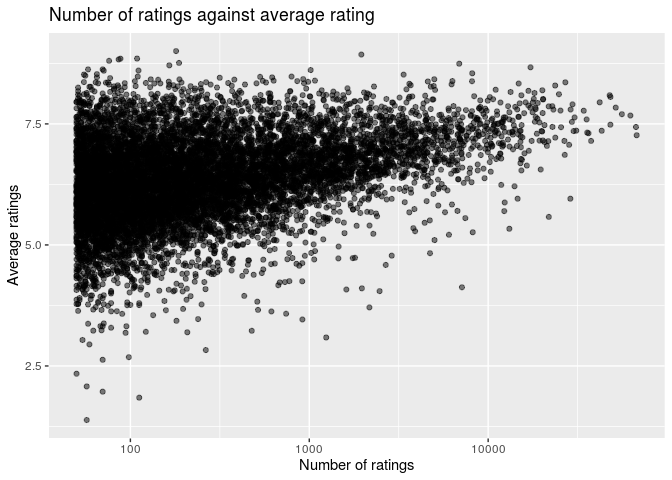
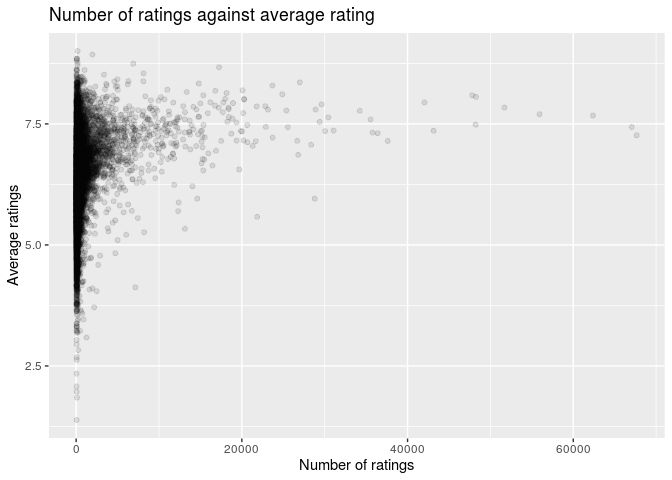
Write up presentation section plan

diff --git a/extra/users_rated.md b/extra/users_rated.md
@@ -72,8 +72,8 @@ board_games <- read_csv(here("data/board_games.csv"))
 ``` r
 board_games_splitcats %>%
   ggplot() +
-  geom_point(aes(x = users_rated, y = average_rating), alpha = 0.5) +
-  scale_x_log10() +
+  geom_point(aes(x = users_rated, y = average_rating), alpha = 0.1) +
+  # scale_x_log10() +
   labs(
   x = "Number of ratings",
   y = "Average ratings",
@@ -627,3 +627,82 @@ probability distribution of average\_rating
 #Can say in project that this is something we could do further (predicting distribution) if give reasons, even if don't necessarily do it. 
 #estimating a prior; bayesian distributions
 ```
+
+### Presentation plan:
+
+#### Relationship between `averege_rating` and `users_rated`
+
+  - average ratings vs number of ratings graph
+
+For low numbers of ratings, there is very high variation in average
+ratings, however as the number of ratings increases, the variation
+reduces significantly, with average ratings being close to 7.5. It
+appears that heavily rated games have tend be well (but not the highest)
+rated. This could be because good games are likely to be played and
+rated more while games that are highest rated are more specialist or
+complicated and so despite being good games, are played by fewer people.
+With data on complexity of the games, this would be something that could
+be explored.
+
+``` r
+board_games_splitcats %>% 
+  filter(rank(desc(average_rating)) <= 10) %>% 
+  arrange(desc(average_rating)) %>% 
+  dplyr::select(name, average_rating)
+```
+
+    ## # A tibble: 10 x 2
+    ##    name                                            average_rating
+    ##    <chr>                                                    <dbl>
+    ##  1 Small World Designer Edition                              9.00
+    ##  2 Kingdom Death: Monster                                    8.93
+    ##  3 Terra Mystica: Big Box                                    8.85
+    ##  4 Last Chance for Victory                                   8.85
+    ##  5 The Greatest Day: Sword, Juno, and Gold Beaches           8.83
+    ##  6 Last Blitzkrieg                                           8.80
+    ##  7 Enemy Action: Ardennes                                    8.76
+    ##  8 Through the Ages: A New Story of Civilization             8.74
+    ##  9 1817                                                      8.71
+    ## 10 Pandemic Legacy: Season 1                                 8.67
+
+Alternatively, it may be that most games are liked by some and disliked
+by others (after all, games are definitely a matter of taste) in such a
+way that given a high enough number of ratings, all games would tend to
+have an average rating close to 7.5, but that a small sample size for
+calculating the average\_rating means that ratings vary more.
+
+#### Distribution of average ratings
+
+In fact, if we look at the distribution of average ratings, we can see
+that it is very close to a normal distribution. - average\_rating
+density plot with normal (without logistic)
+
+Were games to theoretically all have the same mean rating, then the
+central limit theorem tells us that we would expect a normal
+distribution.
+
+Alternatively, it may be that the quality of a game is in general
+normally distributed (rather than being due to variation in samples)
+
+\~\~\~\~\~\~ \[How would we know/determine which of the two reasons are
+correct, ie. whether games tend to in general have a similar rating
+(given enough players) vs. whether the game quality acctually varies
+vs. whether a more rated game tends to be rated \~7.5 because of the
+number of people who end up playingit, etc.?\]
+
+#### Predicting the average\_rating from users\_rated
+
+  - graph of average\_rating vs. users\_rated with model fitted
+  - Model statistics (rmse, rsq)
+
+To predict average\_rating from users\_rated, we first take the log of
+users\_rated to reduce the skew, and then fit a regression line. As
+seen, there is a slight positive correlation between log(users\_rated)
+and average\_rating meaning that games with few ratings are on average
+very poorly rated, while any game with a reasonable number of ratings is
+rated on average fairly similarly.
+
+\~\~\~\~\~\[should I put numerical equation interpretation in here?\]
+
+However, it is clear that this relationship is not very strong, since
+the RMSE values (give) values are quite high and RSQ quite low.
